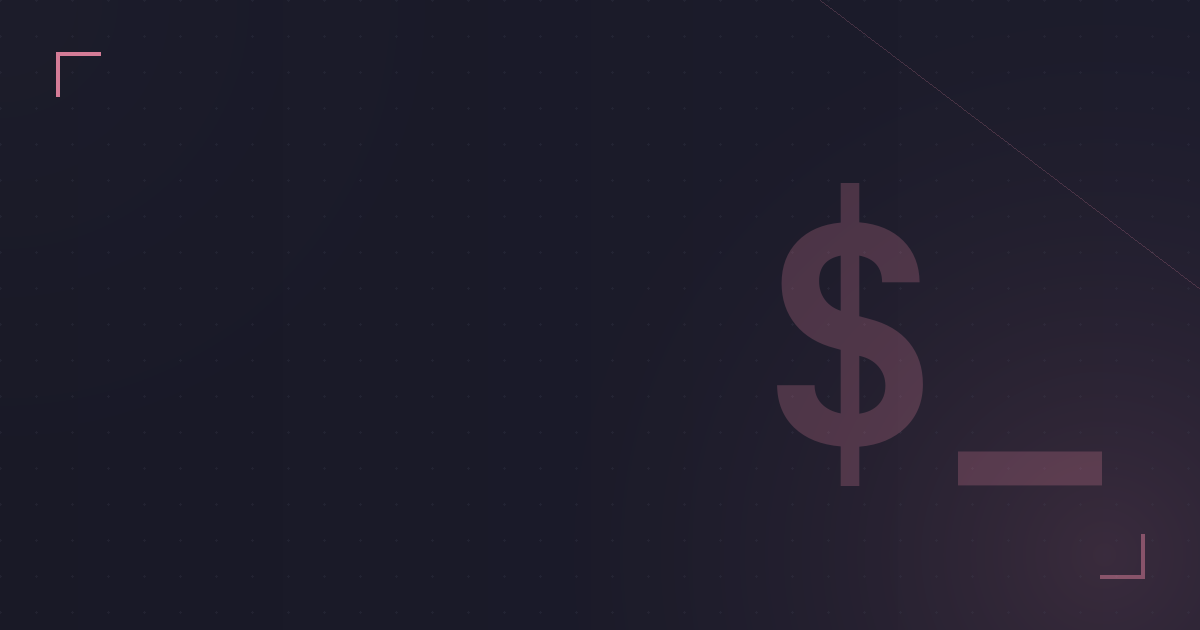
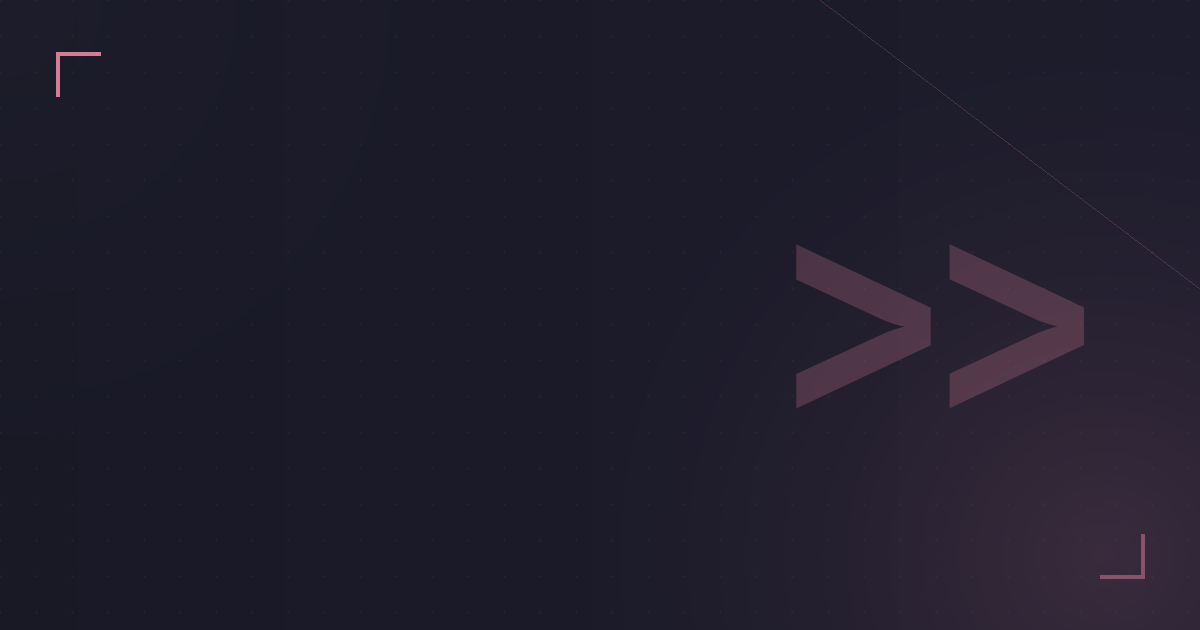
fix: replace $_ glyph with >> in RTK cover image

Changed region(s): [[0.6475, 0.3016, 0.925, 0.7841], [0.7708, 0.6937, 0.925, 0.7841]]

diff --git a/scripts/generate_covers.py b/scripts/generate_covers.py
@@ -64,7 +64,7 @@ ARTICLES: list[tuple[str, str, str, list[str], str, str]] = [
         "60-90% token savings. One binary.",
         ["Rust", "AI", "Tools"],
         "#f38ba8",   # Red
-        "$_",
+        ">>",
     ),
     (
         "neovim-setup",
